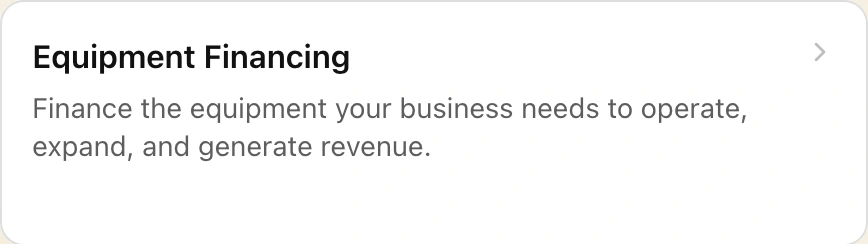
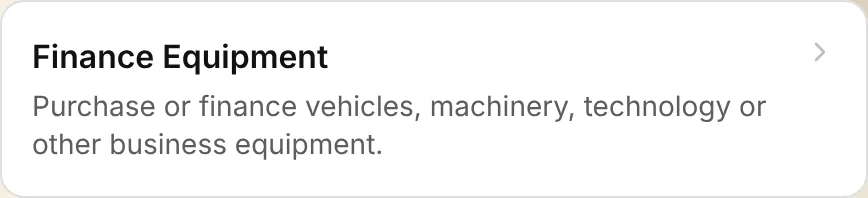
Showcase: refresh the /start and prequal scenes
The How It Works deck shows real captures of the app (public/showcase/*.webp)
inside a JSX browser frame. They were last taken 2026-09-26, and commit 2a0e8d4
— "Prequal on the v1.1 engine; results, account and client dashboard overhaul"
— landed after them and rewrote every page they depict. 14 of the 16 shots are
stale. This does the first four.

THE PREQUAL ONE WAS NOT A COPY DRIFT. The old shot shows an eight-step wizard:
numbered circles 1-8, one question per screen, a Next button and "Question 3 of
8". That UI no longer exists. The form now reveals one question at a time
across two labelled sections ("Your business · 3 of 5 › The equipment"), so the
alt text describing "question three of eight" was narrating a flow the product
does not have. Recaptured part-filled at the same point in the journey the old
shot chose — the credit-score question, two answered before it — and the alt
text now matches.

The goal tile changed too: "Equipment Financing / Finance the equipment your
business needs" is now "Finance Equipment / Purchase or finance vehicles,
machinery, technology or other business equipment". The /start page is 694px
shorter than it was.

Captured at the recipe the file documents: 960px-wide window, 2x device scale,
reduced motion so entrance animations have settled. Declared dimensions updated
to match — start 2750 -> 2056, start-tile 244 -> 198, prequal-form 1440x682 ->
1344x406. All four files are smaller than what they replace.
[…]

diff --git a/src/components/marketing/process-steps.tsx b/src/components/marketing/process-steps.tsx
@@ -91,14 +91,14 @@ interface Scene {
 const SCENES: Scene[] = [
   {
     path: "/start",
-    screen: shot("start", 1920, 2750, "The goal picker: what are you looking to accomplish?"),
-    overlay: { shot: shot("start-tile", 868, 244, "The Equipment Financing option"), width: "w-[44%]" },
+    screen: shot("start", 1920, 2056, "The goal picker: what are you looking to accomplish?"),
+    overlay: { shot: shot("start-tile", 868, 198, "The Finance Equipment option"), width: "w-[44%]" },
     cursor: { hover: [0.34, 0.42], click: [0.42, 0.5] },
   },
   {
     path: "/start/prequal",
-    screen: shot("prequal", 1920, 1800, "Prequalification, question three of eight"),
-    overlay: { shot: shot("prequal-form", 1440, 682, "Two questions answered, the third being filled in"), width: "w-[50%]" },
+    screen: shot("prequal", 1920, 1800, "Prequalification: the third of five questions about the business"),
+    overlay: { shot: shot("prequal-form", 1344, 406, "Two questions answered, the third being filled in"), width: "w-[50%]" },
     cursor: { hover: [0.38, 0.58], click: [0.1, 0.67] },
   },
   {
